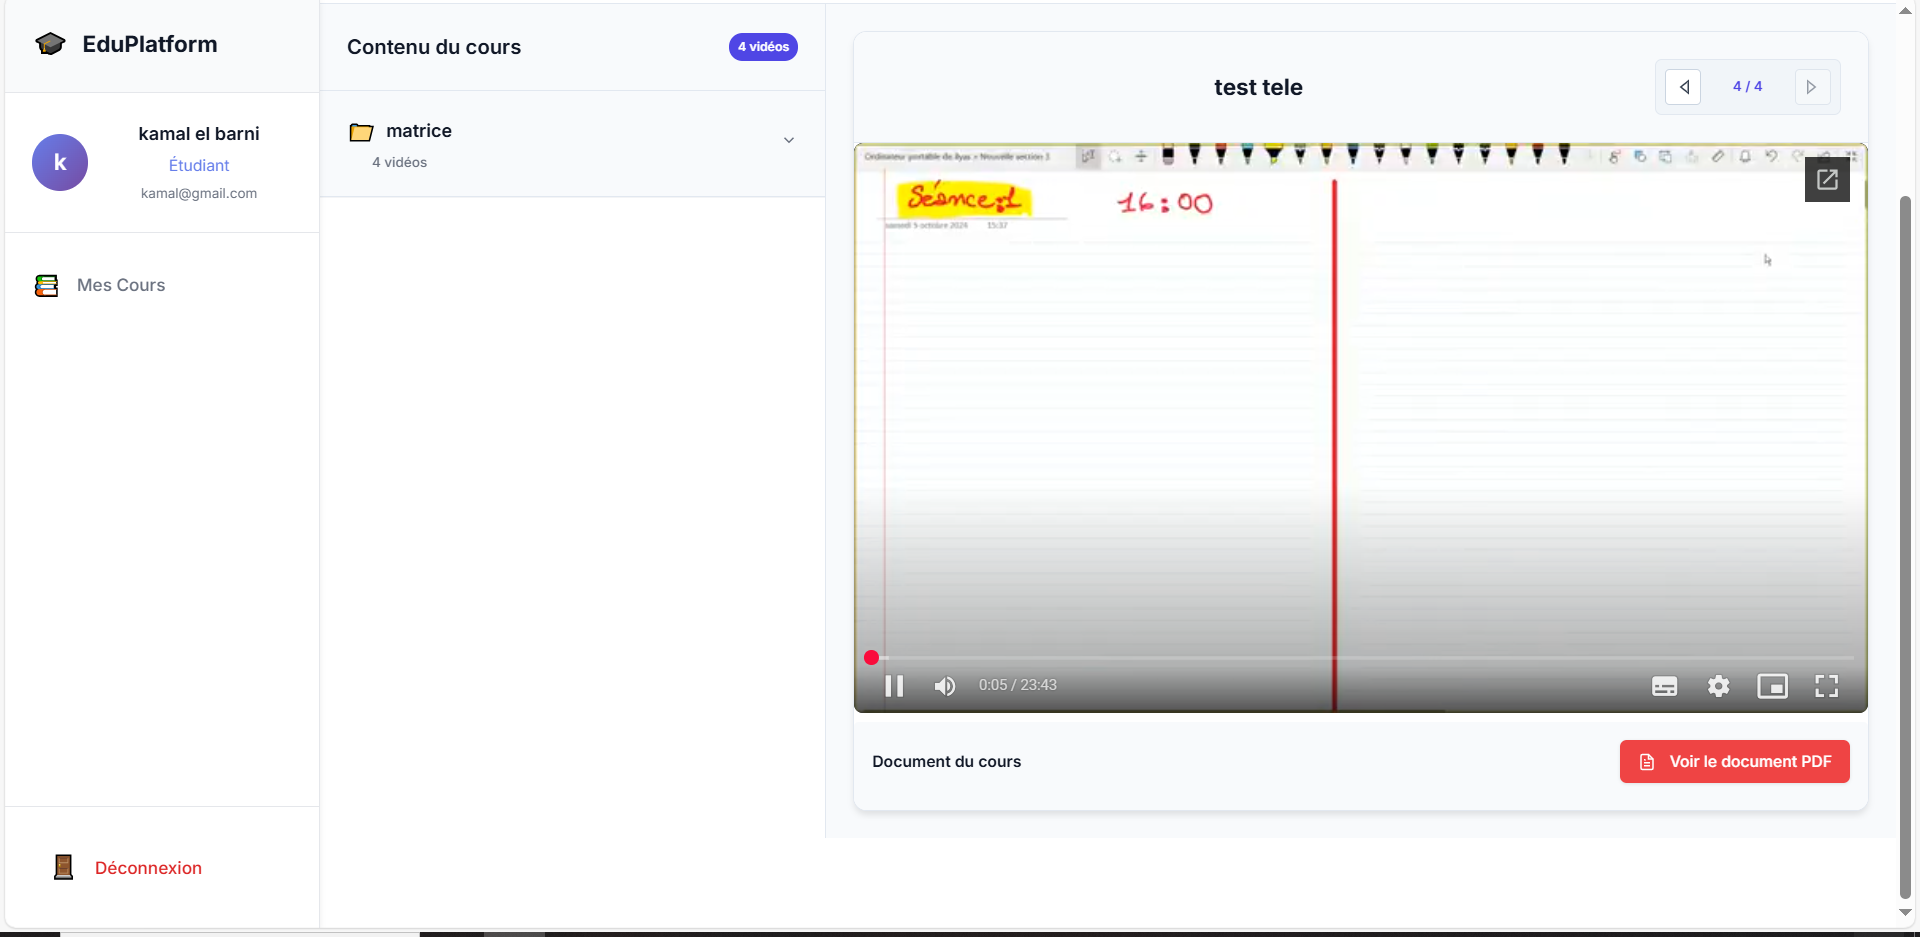
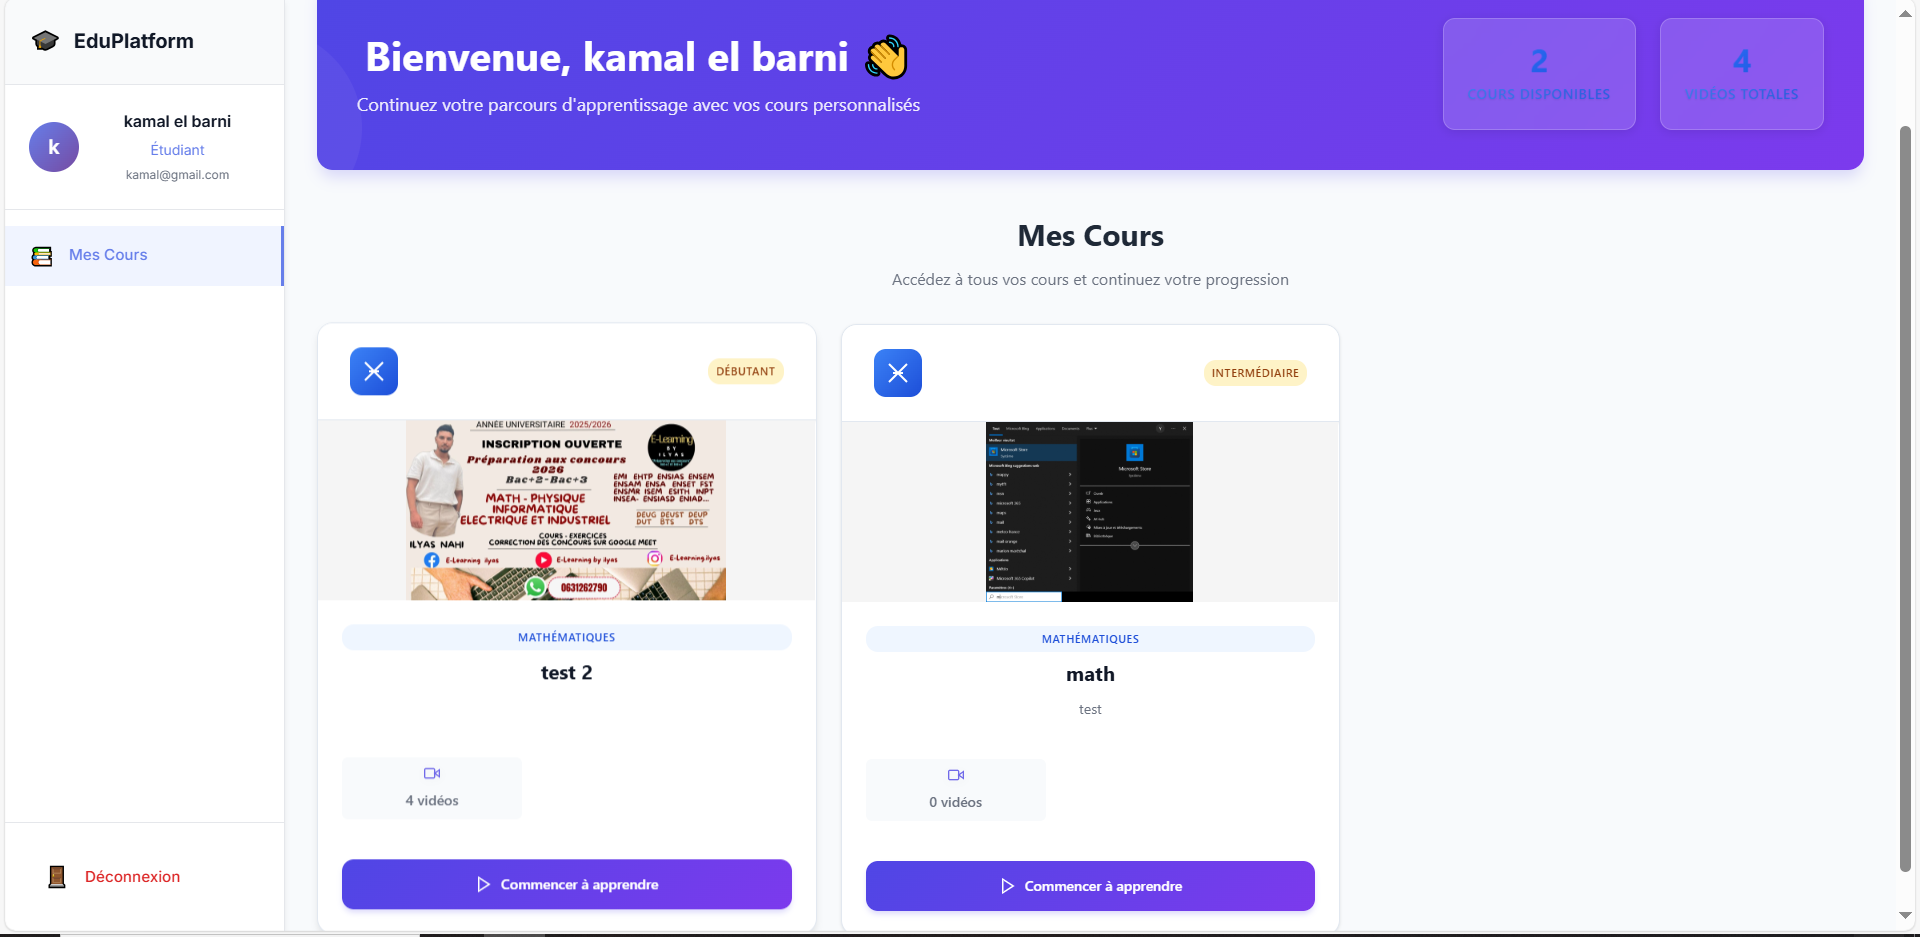
add image scrren PC

diff --git a/frontend/src/components/sections/ScreenshotsSection.js b/frontend/src/components/sections/ScreenshotsSection.js
@@ -8,7 +8,7 @@ const ScreenshotsSection = () => {
       alt: 'Capture d\'écran de l\'interface'
     },
     {
-      image: '/images/screenshots/desktop-courses.png',
+      image: '/images/screenshots/screen2.png',
       alt: 'Capture d\'écran des cours'
     },
     {
